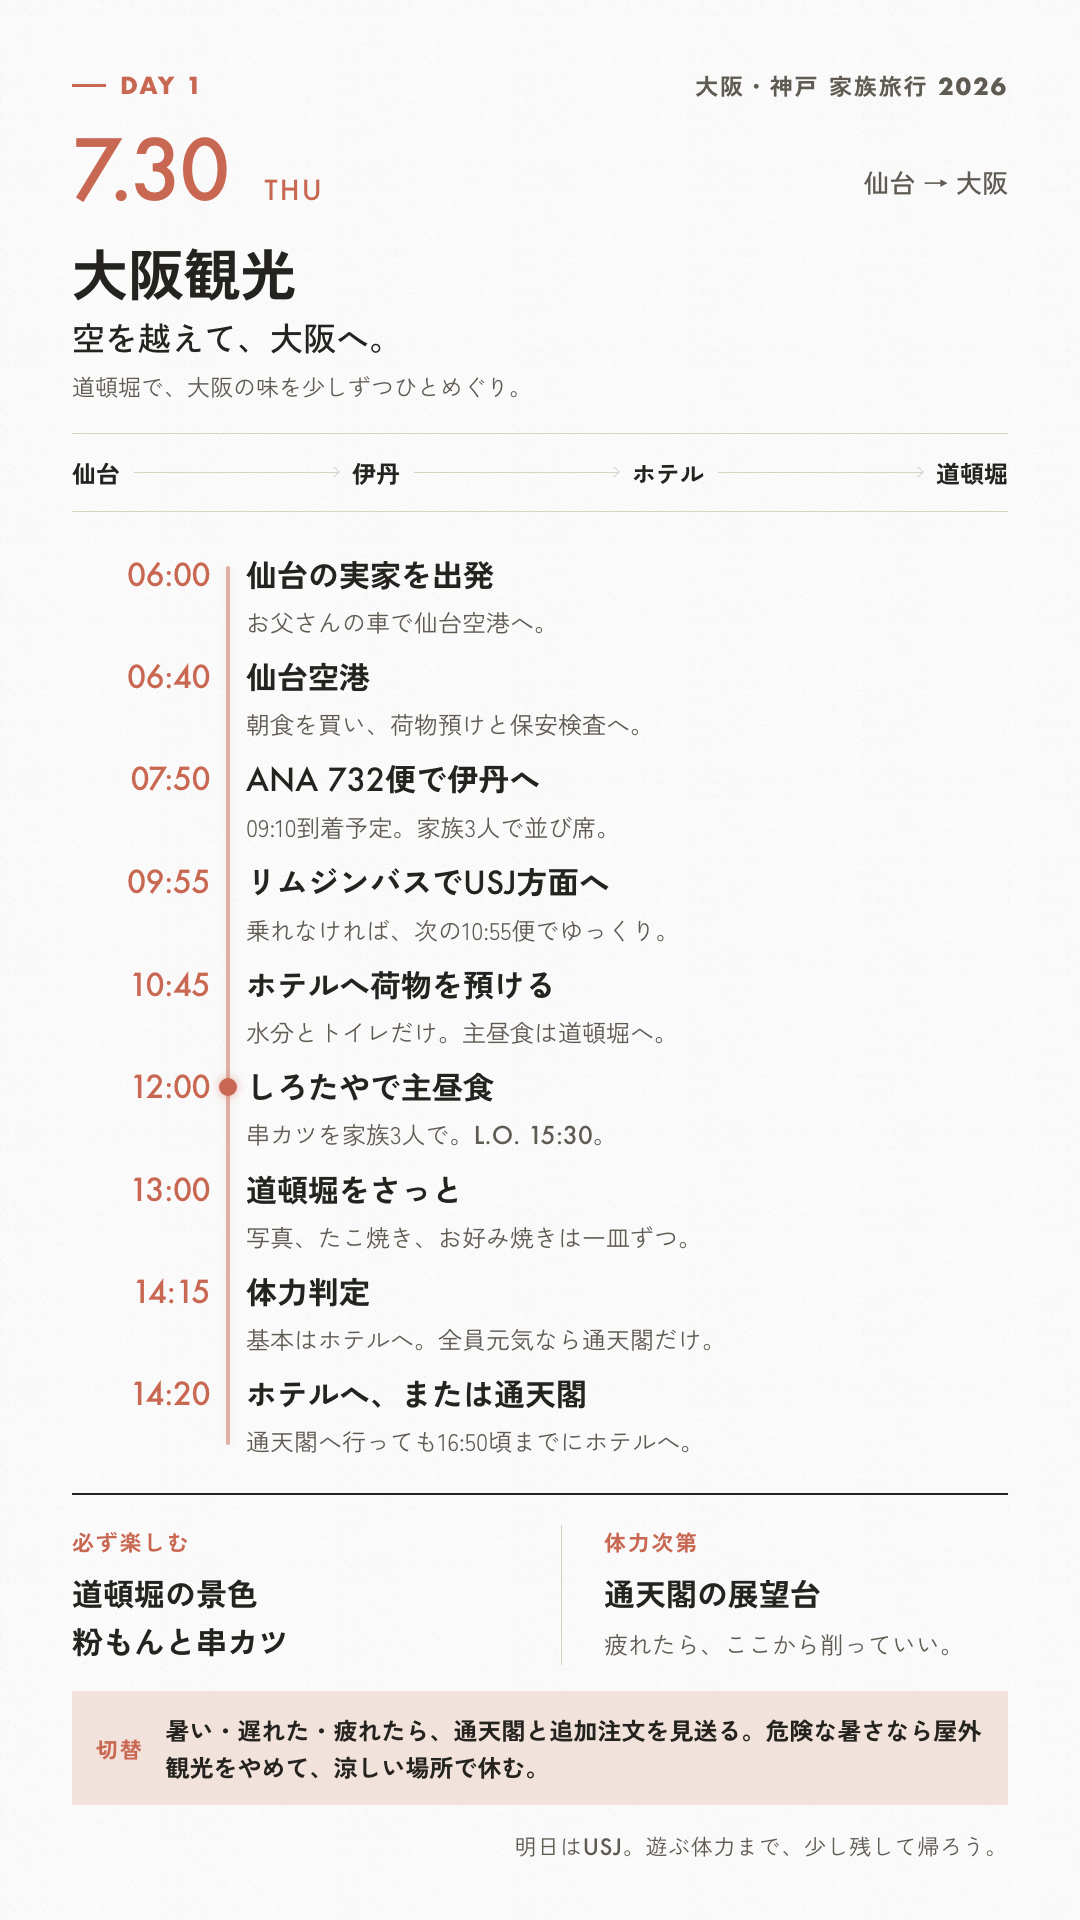
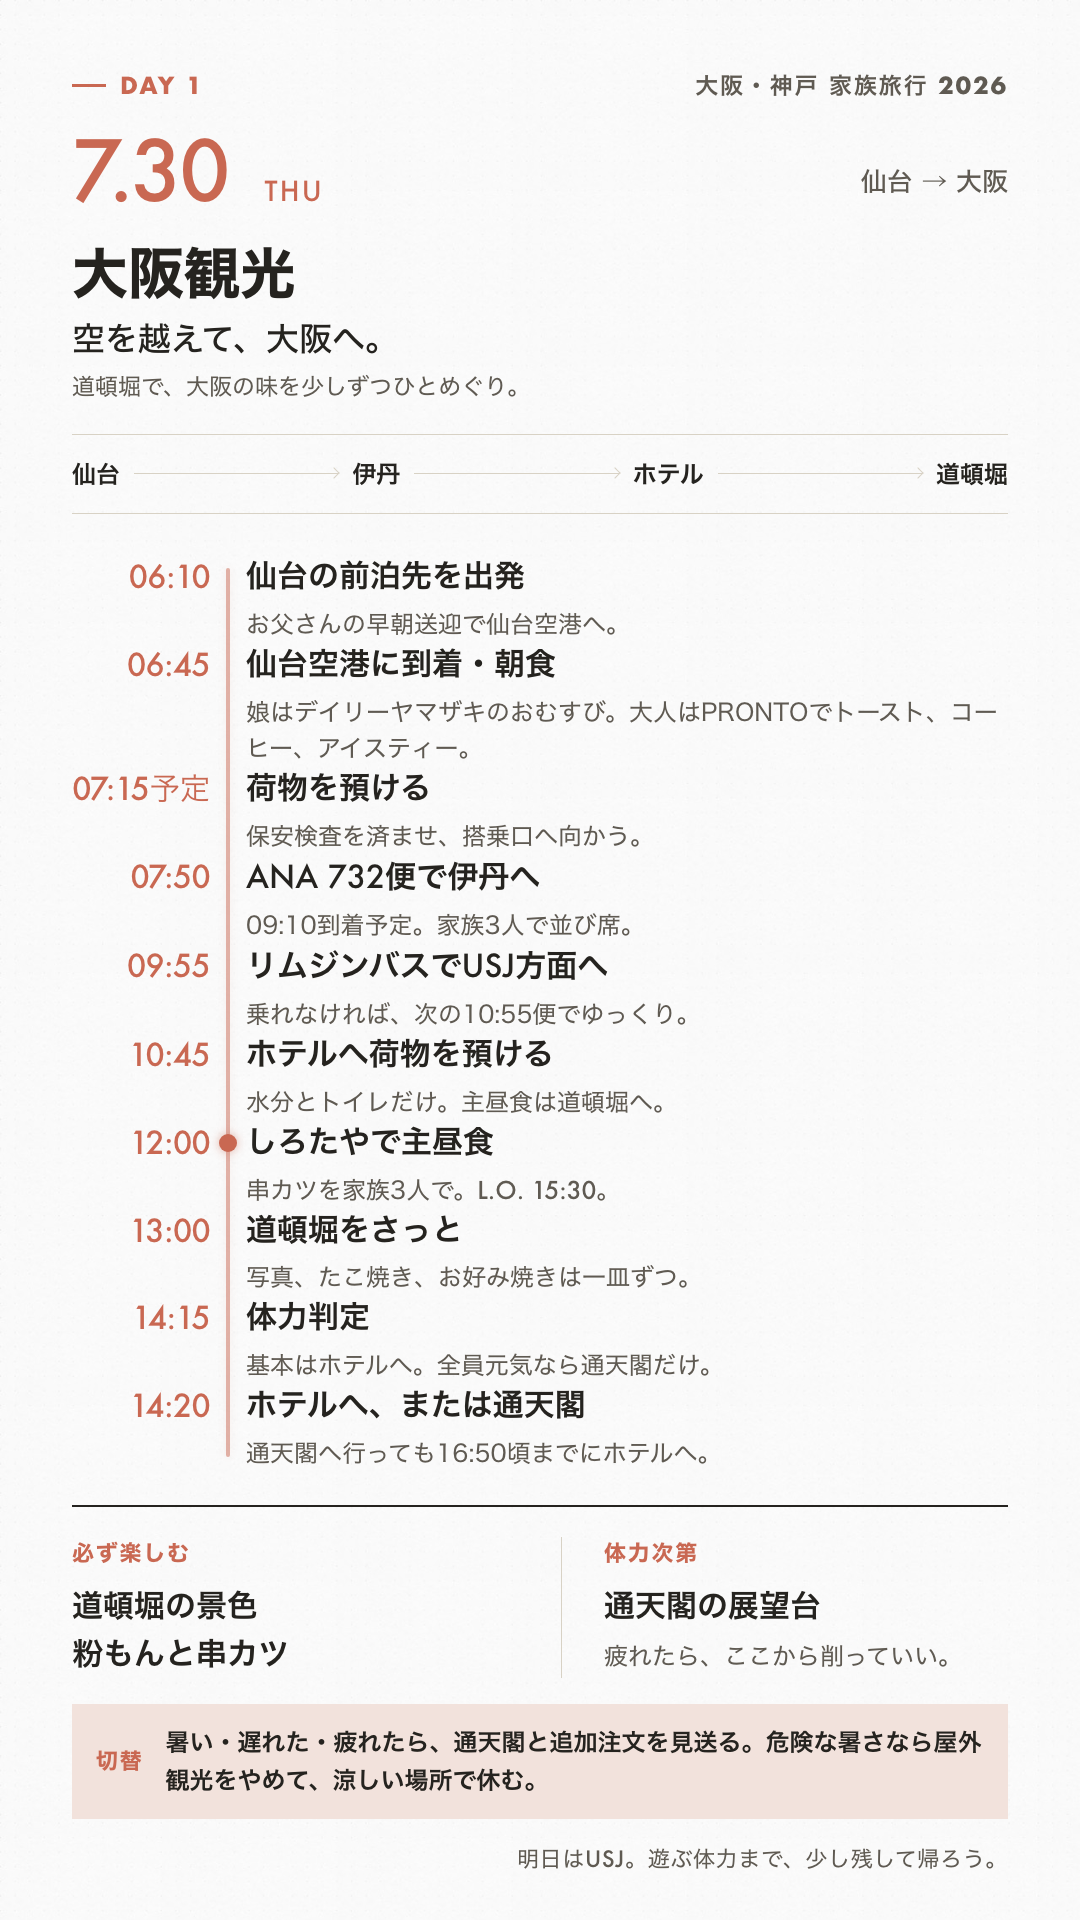
Reflect departure milestones in guide

diff --git a/docs/trip-plan.html b/docs/trip-plan.html
@@ -109,10 +109,24 @@
           </p>
           <div class="timeline">
             <div class="timeline__item">
-              <time>06:00</time>
+              <time>06:10</time>
               <div>
-                <h3>仙台空港へ出発</h3>
-                <p>06:40頃到着。空港で軽食を買い、手続き後に搭乗口付近で食べる。</p>
+                <h3>仙台の前泊先を出発</h3>
+                <p>お父さんの早朝送迎で仙台空港へ。</p>
+              </div>
+            </div>
+            <div class="timeline__item">
+              <time>06:45</time>
+              <div>
+                <h3>仙台空港に到着・朝食</h3>
+                <p>娘はデイリーヤマザキのおむすび。大人はPRONTOでトースト、コーヒー、アイスティーをいただいた。</p>
+              </div>
+            </div>
+            <div class="timeline__item">
+              <time>07:15予定</time>
+              <div>
+                <h3>荷物を預ける</h3>
+                <p>保安検査を済ませ、搭乗口へ向かう。</p>
               </div>
             </div>
             <div class="timeline__item">
